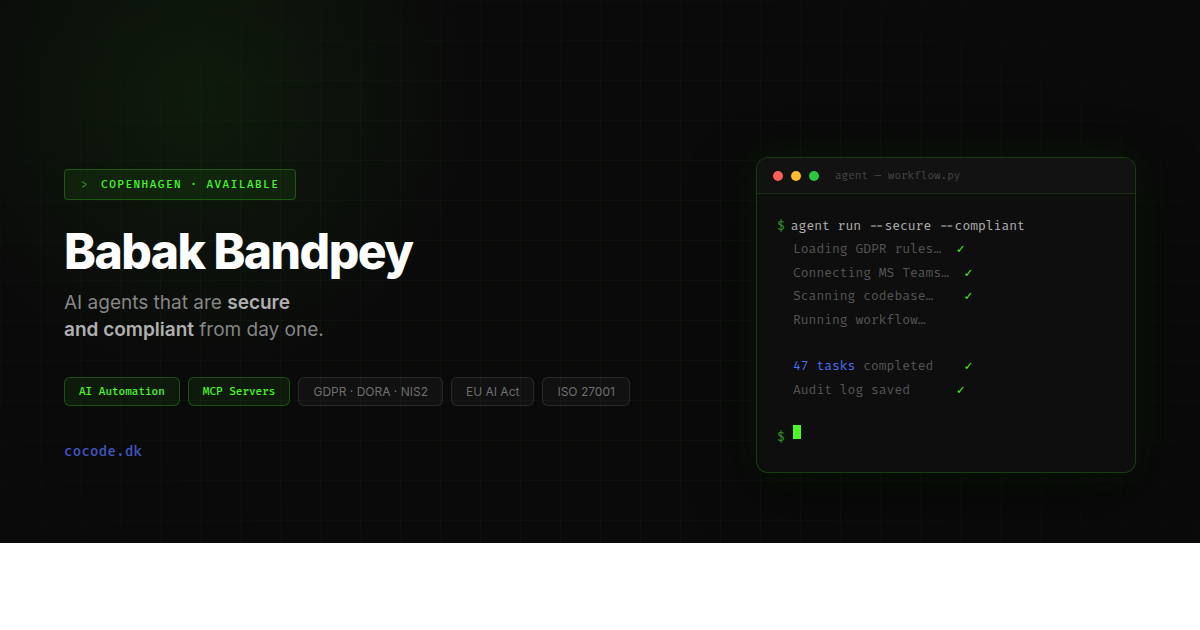
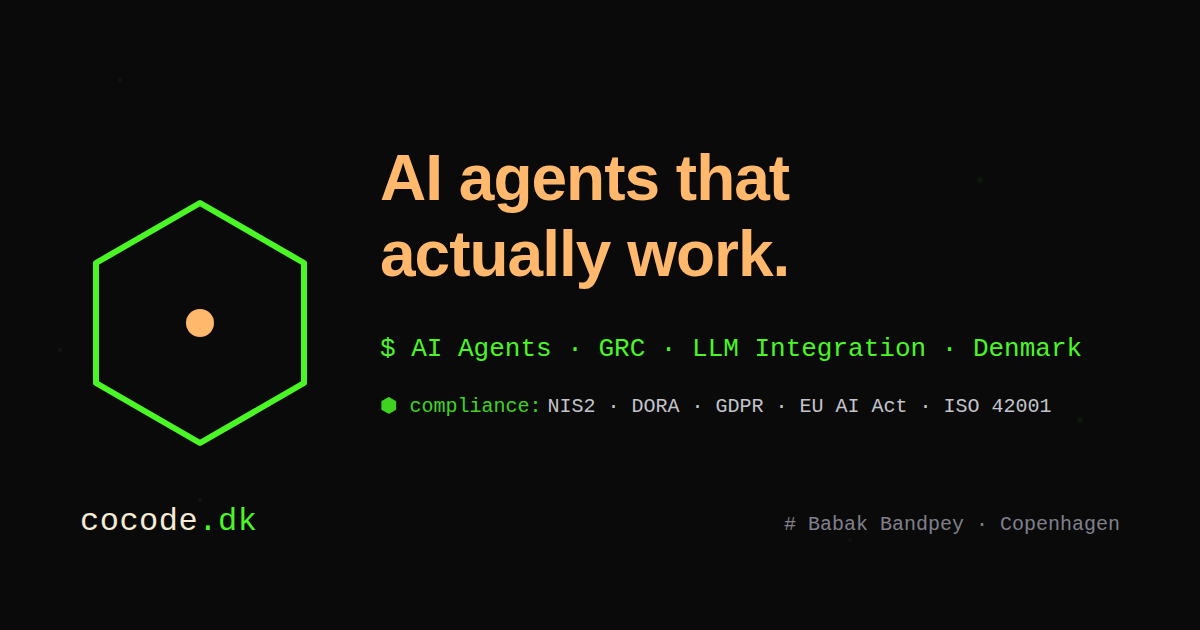
feat: regenerate OG card with hexagon brand mark (Phase 6.1)
Replaces the existing images/og-card-1200x630.png with a brand-aligned
version per design/brand.md B7 — the previous card had no rationale
visible link to the cocode.dk visual language.

The new card carries the same fingerprint elements as the live site:
* Green hexagon outline + amber centre dot (the brand mark, F1)
* Headline "AI agents that actually work." in warm amber (the
  credibility colour reserved for the H1 — colors.md)
* Terminal prompt tagline "$ AI Agents · GRC · LLM Integration ·
  Denmark" in green mono (F2)
* "⬢ compliance: NIS2 · DORA · GDPR · EU AI Act · ISO 42001" strip
  matching the new in-page compliance strip
* cocode.dk wordmark + "# Babak Bandpey · Copenhagen" author credit

* images/og-card-source.html — canonical source. Plain HTML wrapping
  inline SVG so any text editor can adjust copy without needing
  Inkscape/Illustrator. Header comment documents the chromium
  regeneration command. Body padding zeroed so the rendered viewport
  matches the SVG viewBox exactly (the earlier SVG-direct render
  picked up chromium body margin and cut the bottom).

* images/og-card-1200x630.png — regenerated 1200×630 PNG, used by
  template.html's og:image and twitter:image meta tags. No template
  change required because the filename is unchanged.

Verified: file is correct dimensions (1200×630, RGB, non-interlaced),
visually matches the live hero (H1 amber, prompt green, hexagon mark).
Re-test on linkedin.com/post-inspector + dev/post-cards after deploy
[…]

diff --git a/images/og-card-source.html b/images/og-card-source.html
@@ -1,0 +1,38 @@
+<!--
+  Source for images/og-card-1200x630.png. Edit the SVG below, then regen via:
+    chromium --headless --no-sandbox --disable-gpu --window-size=1200,630 \
+      --hide-scrollbars --screenshot=images/og-card-1200x630.png \
+      "file://$(pwd)/images/og-card-source.html"
+  Brand reference: docs/optimize-presence-on-web/design/brand.md (B7).
+-->
+<!DOCTYPE html>
+<html><head><style>
+html,body{margin:0;padding:0;background:#0a0a0a;overflow:hidden}
+svg{display:block;width:1200px;height:630px}
+</style></head><body>
+<svg xmlns="http://www.w3.org/2000/svg" viewBox="0 0 1200 630" width="1200" height="630">
+  <rect width="1200" height="630" fill="#0a0a0a"/>
+  <g fill="#4af626" opacity="0.06">
+    <circle cx="120" cy="80" r="2"/><circle cx="980" cy="180" r="3"/>
+    <circle cx="200" cy="500" r="2"/><circle cx="850" cy="540" r="2"/>
+    <circle cx="1080" cy="420" r="3"/><circle cx="60" cy="350" r="2"/>
+  </g>
+  <g transform="translate(80 195)">
+    <polygon points="120,8 224,68 224,188 120,248 16,188 16,68"
+             fill="none" stroke="#4af626" stroke-width="6" stroke-linejoin="round"/>
+    <circle cx="120" cy="128" r="14" fill="#ffb86c"/>
+  </g>
+  <text x="380" y="200" font-family="'IBM Plex Sans', 'Helvetica Neue', sans-serif"
+        font-size="64" font-weight="700" fill="#ffb86c" letter-spacing="-1">AI agents that</text>
+  <text x="380" y="276" font-family="'IBM Plex Sans', 'Helvetica Neue', sans-serif"
+        font-size="64" font-weight="700" fill="#ffb86c" letter-spacing="-1">actually work.</text>
+  <text x="380" y="356" font-family="'IBM Plex Mono', 'Courier New', monospace"
+        font-size="26" font-weight="500" fill="#4af626">$ AI Agents · GRC · LLM Integration · Denmark</text>
+  <text x="380" y="412" font-family="'IBM Plex Mono', 'Courier New', monospace"
+        font-size="20" fill="#c4c4cc"><tspan fill="#4af626" opacity="0.85">⬢ compliance:</tspan><tspan dx="6">NIS2 · DORA · GDPR · EU AI Act · ISO 42001</tspan></text>
+  <text x="80" y="530" font-family="'IBM Plex Mono', 'Courier New', monospace"
+        font-size="32" font-weight="500" fill="#f5ecd6" letter-spacing="0.5">cocode<tspan fill="#4af626">.dk</tspan></text>
+  <text x="1120" y="530" text-anchor="end" font-family="'IBM Plex Mono', 'Courier New', monospace"
+        font-size="20" fill="#80808c"># Babak Bandpey · Copenhagen</text>
+</svg>
+</body></html>
